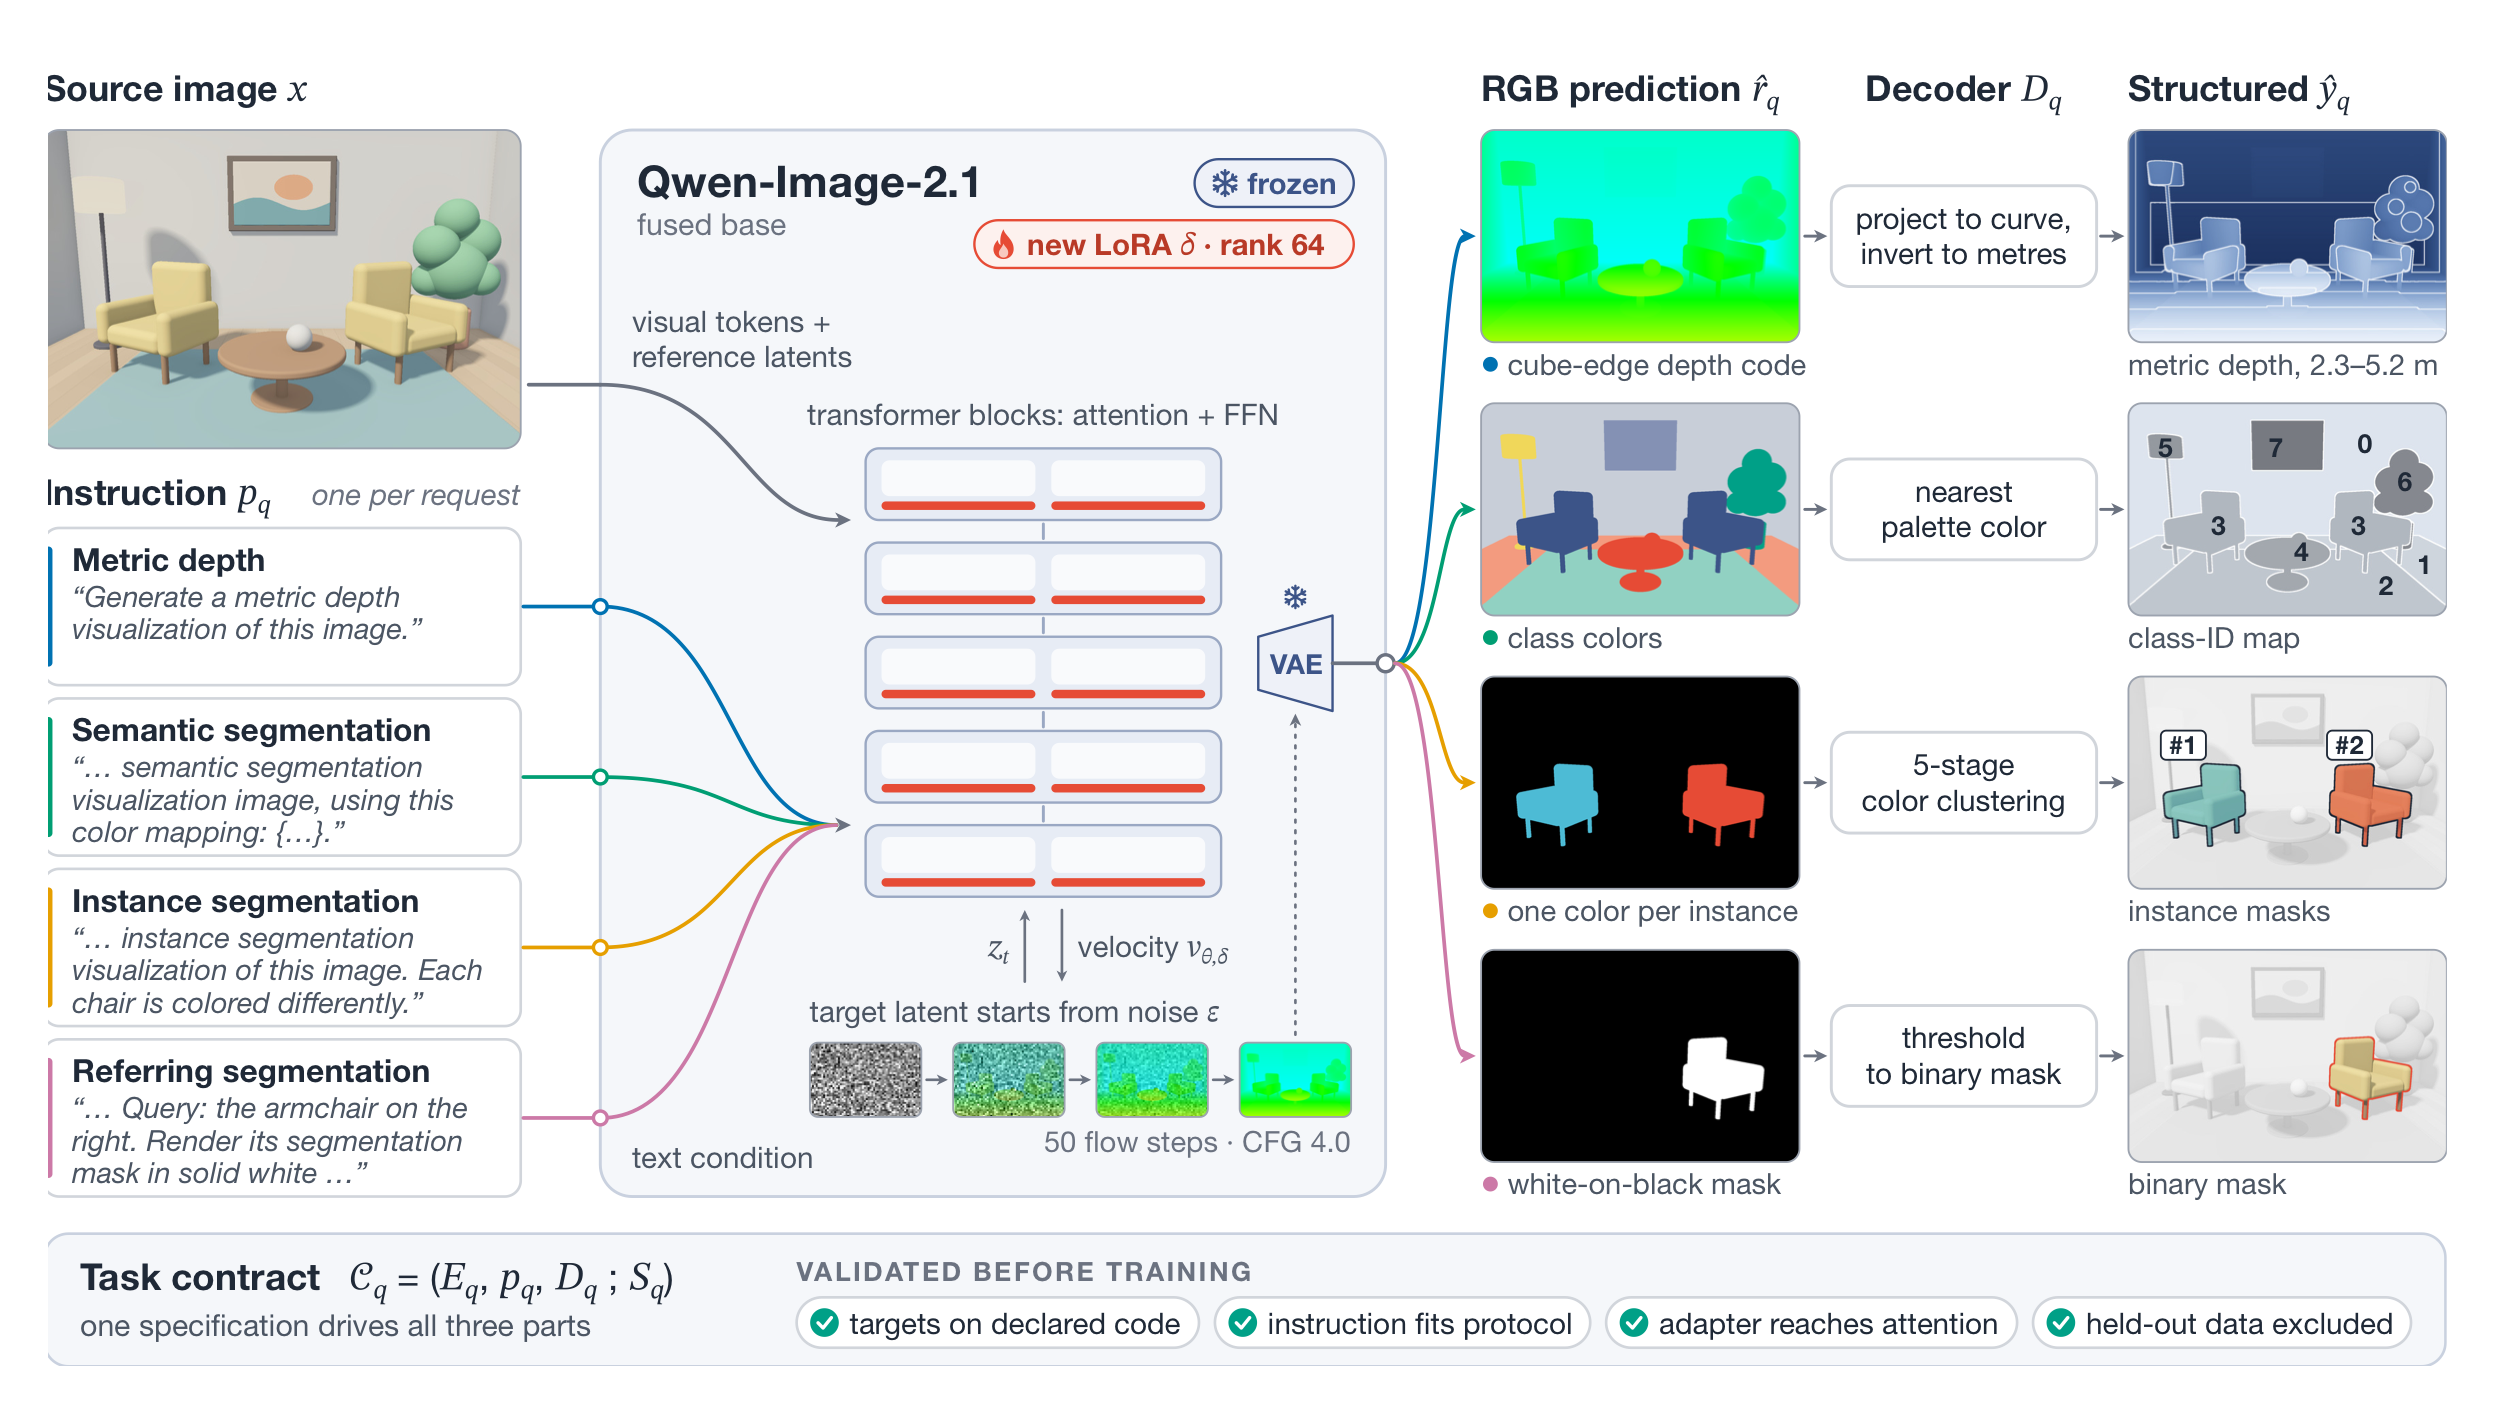
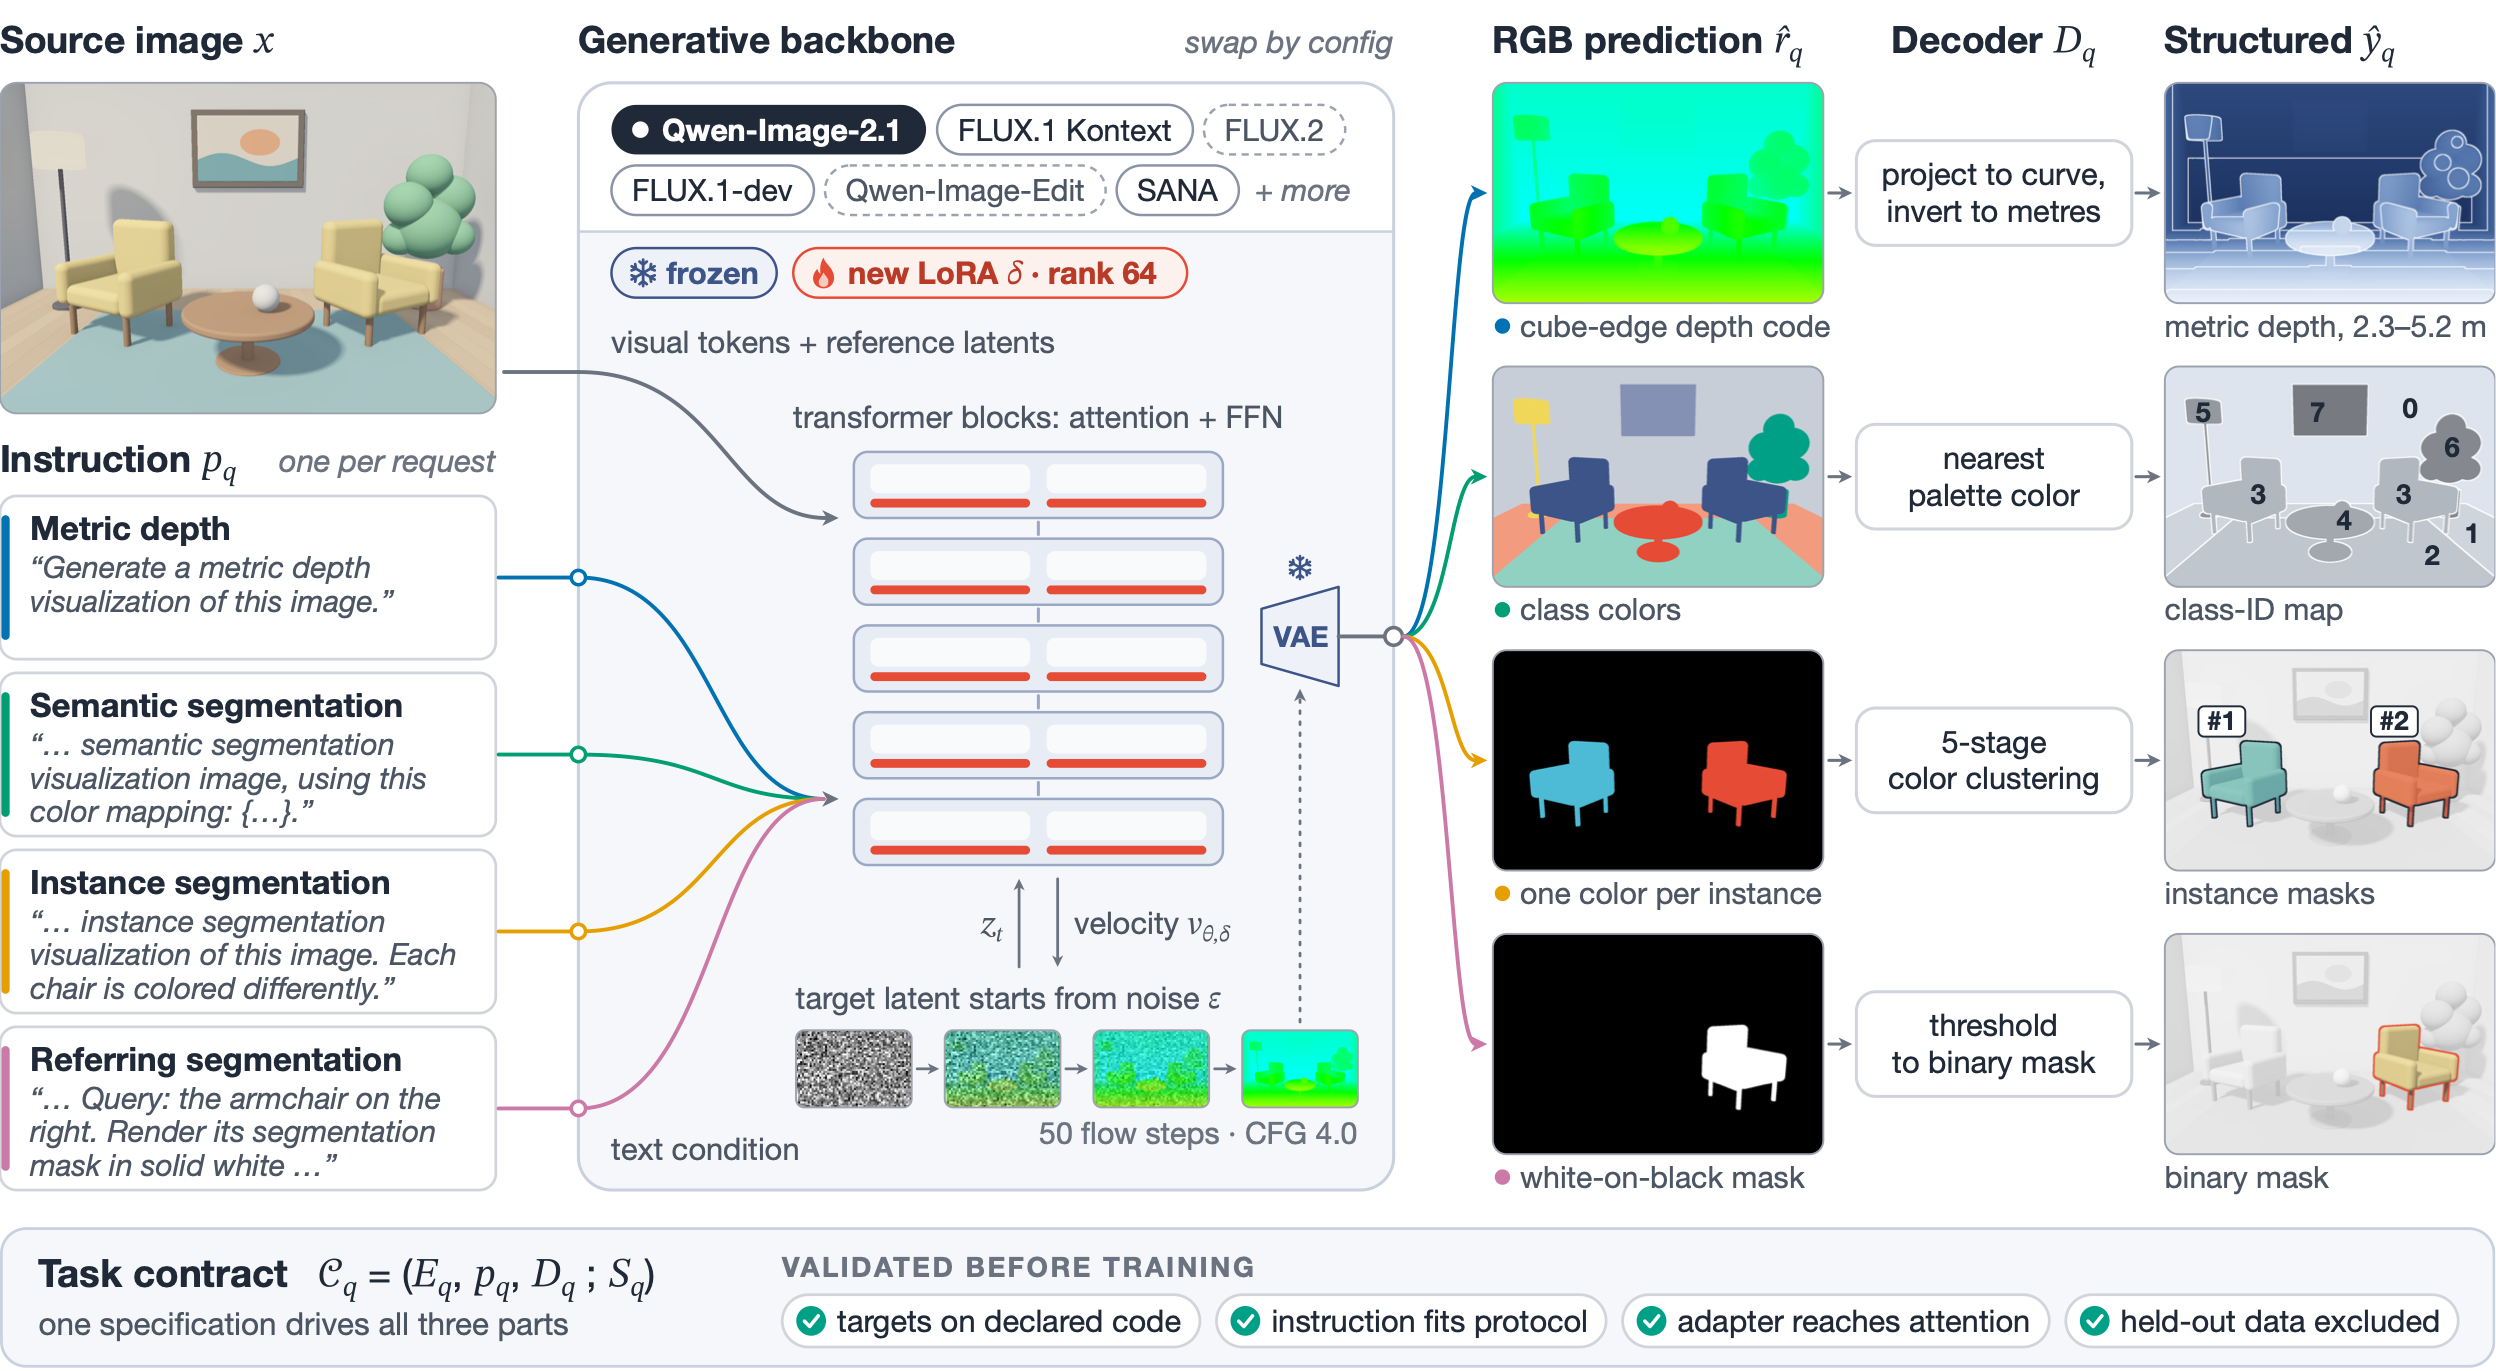
docs(readme): update Fig. 1 to the v7 overview
The new overview shows that the backbone is swapped by config, the rank-64
LoRA, the flow-matching loop and the task-contract checks run before
training. The alt text now matches the figure.

Generated with [Devin](https://devin.ai)

Changed region(s): [[0.0, 0.0, 1.0, 1.0], [0.1875, 0.3982, 0.2812, 0.4902]]

diff --git a/README.md b/README.md
@@ -21,7 +21,7 @@
 
 <br>
 
-<img src="docs/assets/fig1_overview.png" alt="Open-Vision-Banana overview: one frozen Qwen-Image-2.1 backbone with a shared LoRA turns a source image and a task instruction into an RGB prediction, which a parameter-free decoder converts to metric depth, class IDs, instance masks or a referring mask" width="100%">
+<img src="docs/assets/fig1_overview.png" alt="Open-Vision-Banana overview: a frozen generative backbone (Qwen-Image-2.1 by default, swappable by config for FLUX.1, FLUX.2, Qwen-Image-Edit, SANA and more) with a new rank-64 LoRA turns a source image and a task instruction into an RGB prediction, which a parameter-free decoder converts to metric depth, class IDs, instance masks or a referring mask" width="100%">
 
 <sub><b>Overview.</b> A frozen image generator with one shared LoRA adapter answers every task with an RGB image; a fixed, parameter-free decoder turns that image back into metric depth, a class-ID map, instance masks or a binary referring mask. Each task is fully specified by its contract (encoder, instruction, decoder).</sub>
 
